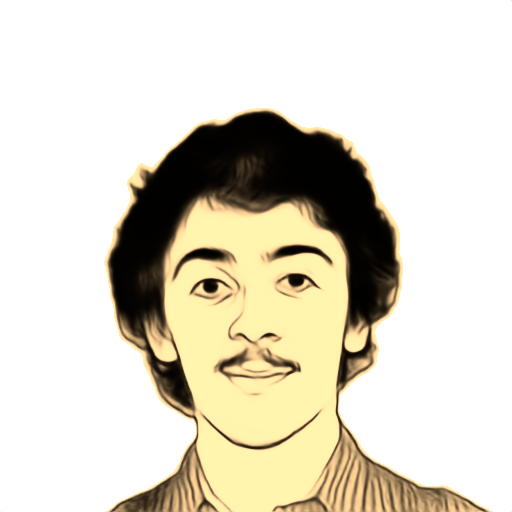
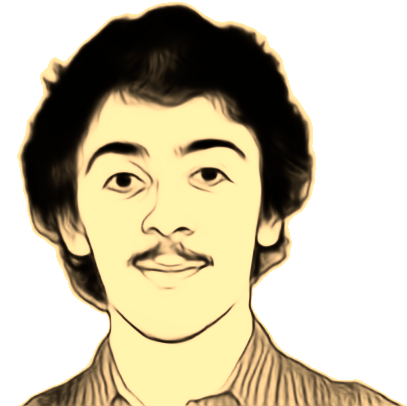
updated img

diff --git a/src/App.vue b/src/App.vue
@@ -9,15 +9,15 @@
     <div class="hidden-sm-and-down appHeader"  :style="image"   id="desktopHeader">
       <v-row     align="end" justify="center"  >
         <v-col   sm="3" md="4"   >
-            <v-img  class="ml-auto" :class="{ downSlide: headerAnimations }"  :src="avatar"  width="150"/>
+            <v-img  class="ml-auto" :class="{ downSlide: headerAnimations }"  :src="avatar"  width="120"/>
         </v-col>
         <v-col :class="{ downSlide: headerAnimations }" md="8" lg="6" sm="12">
-            <h1   class="font-header" style="font-size:240%;" > 
-            <span class="blue neon-header">&nbsp Pedro F. Esteves &nbsp</span>
-            </h1> 
-            <p      class="font-header"  style="font-size:210%; font-weight:bold;" >
-              <span class="blue neon-header" > {{text_desktop_header_subtitle}}</span>
-            </p>           
+          <h1   class="font-header" style="font-size:240%;" > 
+          <span class="blue neon-header">&nbsp Pedro F. Esteves &nbsp</span>
+          </h1> 
+          <p class="font-header"  style="font-size:210%; font-weight:bold;" >
+            <span class="blue neon-header" > {{text_desktop_header_subtitle}}</span>
+          </p>           
         </v-col>
       </v-row>
       
@@ -235,7 +235,7 @@ import avatar        from './assets/cartoon/avatar.png';
 import enFlag        from './assets/flags/EN.png'
 import ptFlag        from './assets/flags/PT.png'
 import store         from './store';
-import tiles         from './assets/azulejos.jpg';
+import tiles         from './assets/8-4.png';
 import translations  from  './translations/app.js';
 import Professional  from './views/Professional.vue'
 import VisitCounter  from  './components/VisitCounter.vue';

diff --git a/src/views/AboutMe.vue b/src/views/AboutMe.vue
@@ -137,7 +137,6 @@
 import translations    from  '../translations/aboutme.js';
 import ArticleFigure   from  '../components/ArticleFigure.vue';
 import QuoteCarousel   from  '../components/QuoteCarousel.vue';
-import tiles           from '../assets/azulejos.jpg';
 
 export default {
   name: 'AboutMe',
